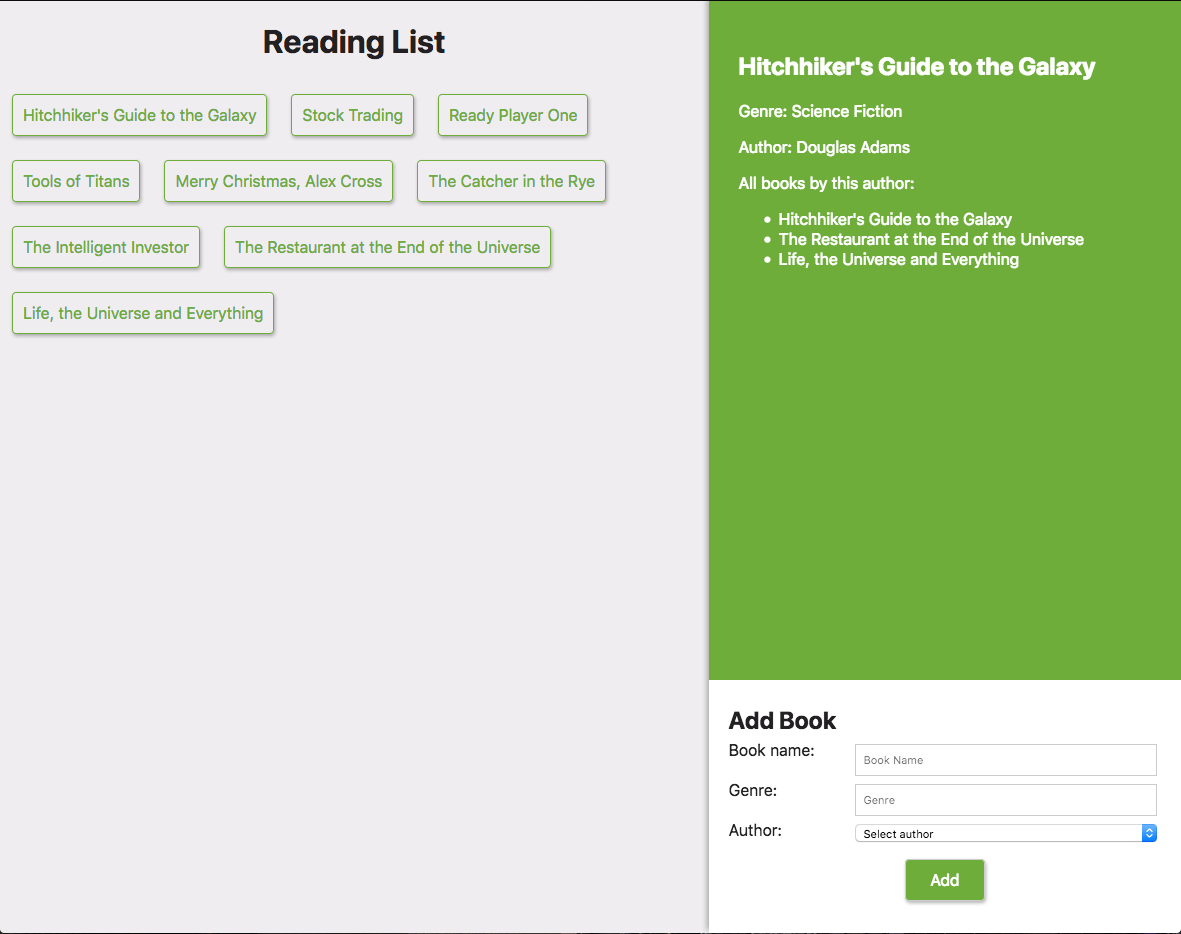
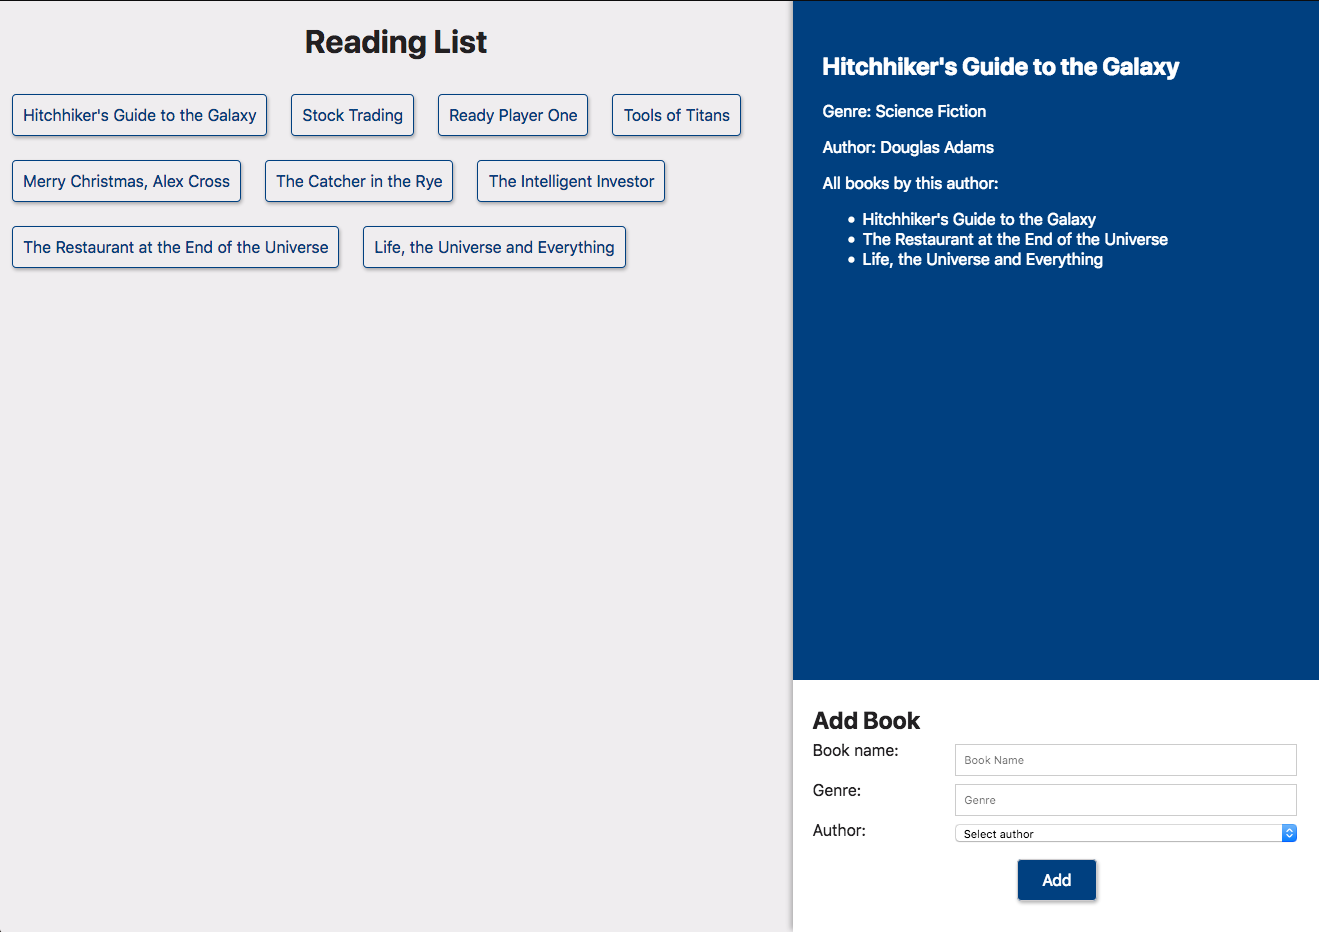
Change Color Scheme to Blue

diff --git a/client/src/components/BookList.js b/client/src/components/BookList.js
@@ -14,10 +14,10 @@ const Book = styled.li`
     margin: 12px;
     padding: 10px;
     border-radius: 4px;
-    border: 1px solid #6ead3a;
+    border: 1px solid #004080;
     box-shadow: 1px 2px 3px rgba(0, 0, 0, 0.3);
     cursor: pointer;
-    color: #6ead3a;
+    color: #004080;
 `;
 
 class _BookList extends Component {

diff --git a/client/src/components/BookDetails.js b/client/src/components/BookDetails.js
@@ -10,7 +10,7 @@ const Container = styled.div`
     right: 0;
     width: 40%;
     height: 100%;
-    background: #6ead3a;
+    background: #004080;
     padding: 30px;
     overflow: auto;
     box-shadow: -2px -3px 5px rgba(0, 0, 0, 0.3);

diff --git a/client/src/components/AddBook.js b/client/src/components/AddBook.js
@@ -67,7 +67,7 @@ const Button = styled.button`
     font-size: 1rem;
     width: 5rem;
     color: #ffffff;
-    background: #6ead3a;
+    background: #004080;
     cursor: pointer;
     margin: 12px;
     padding: 10px;
